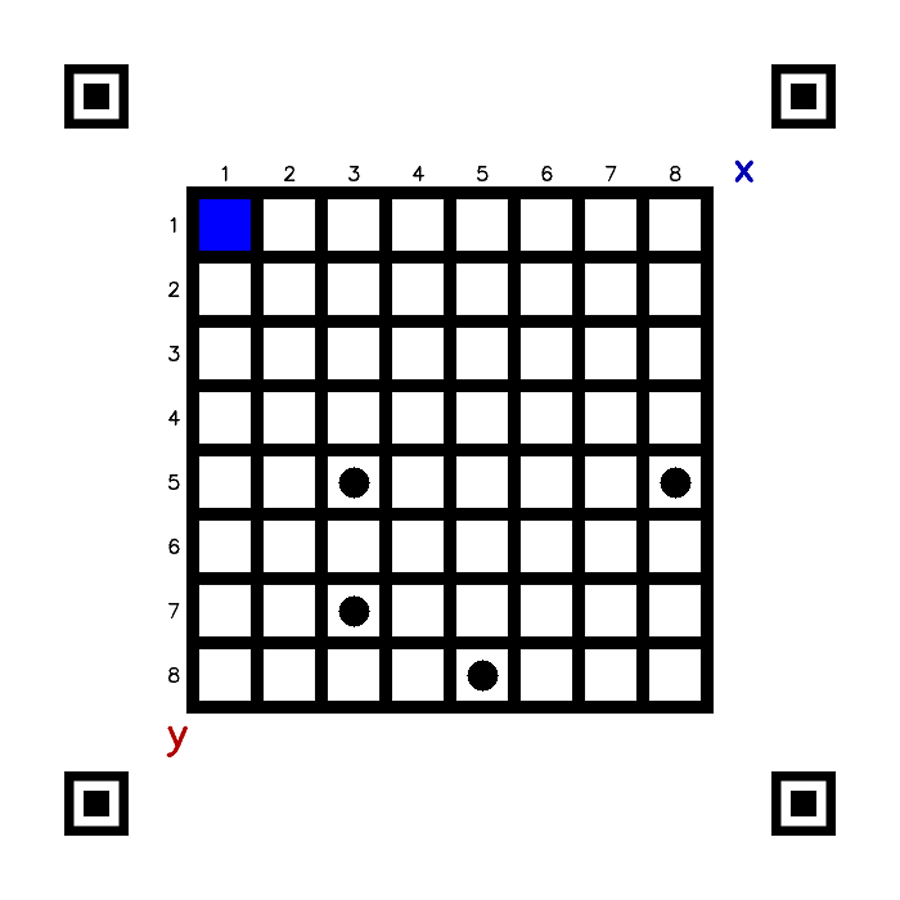
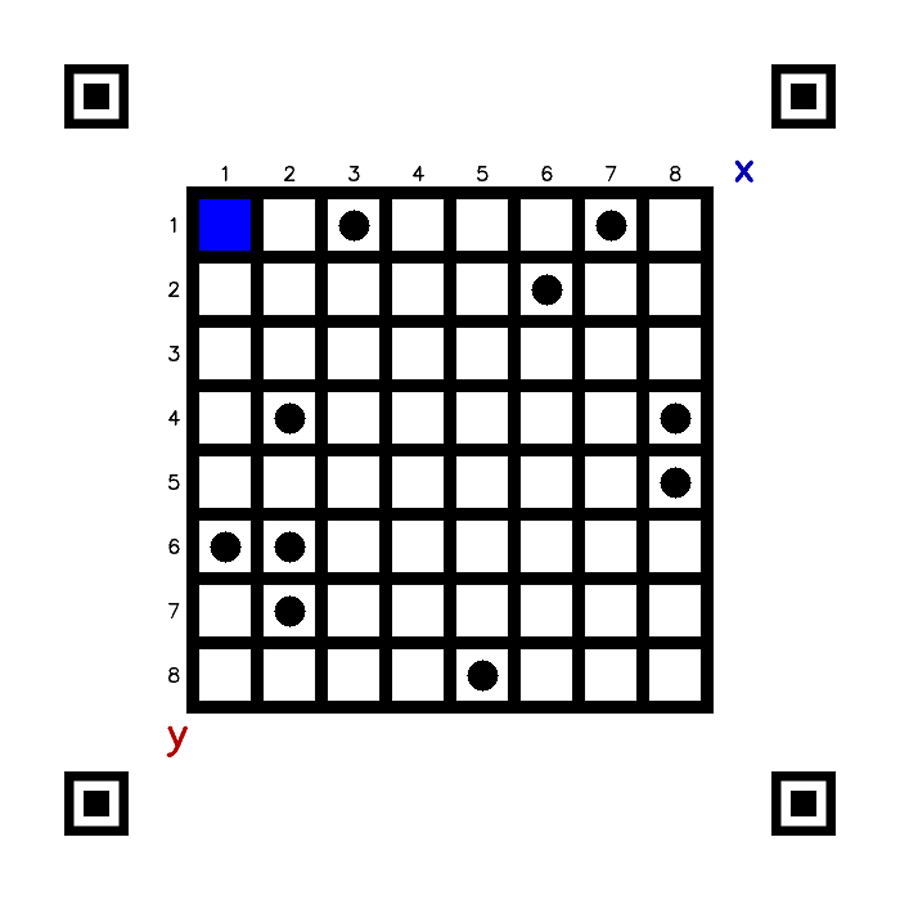
1，1点不可出现圆点

diff --git a/CVgenshin.py b/CVgenshin.py
@@ -218,7 +218,7 @@ class Ui_CVtest(QWidget):
             while True:
                 x = random.randint(0, 7)
                 y = random.randint(0, 7)
-                if [x, y] not in point_list:
+                if ([x, y] not in point_list) and (x != 0 or y != 0):
                     point_list.append([x, y])
                     cv2.circle(gene_img, (175 + 50 * x, 175 + 50 * y), 12, (0, 0, 0), -1)
                     break
